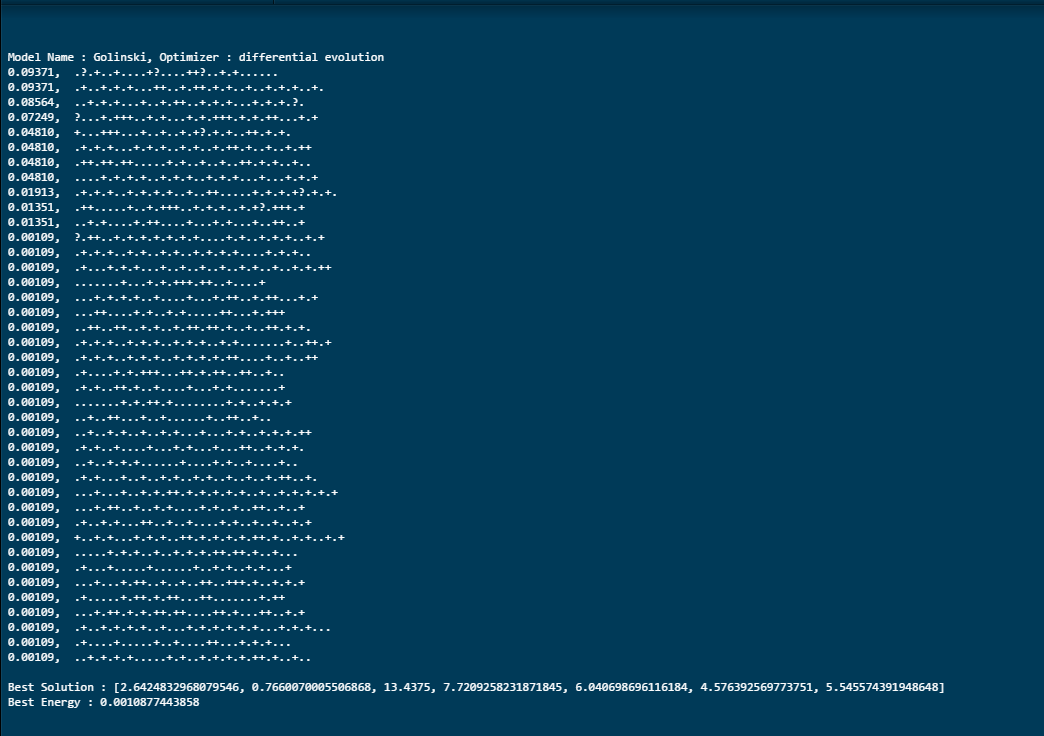
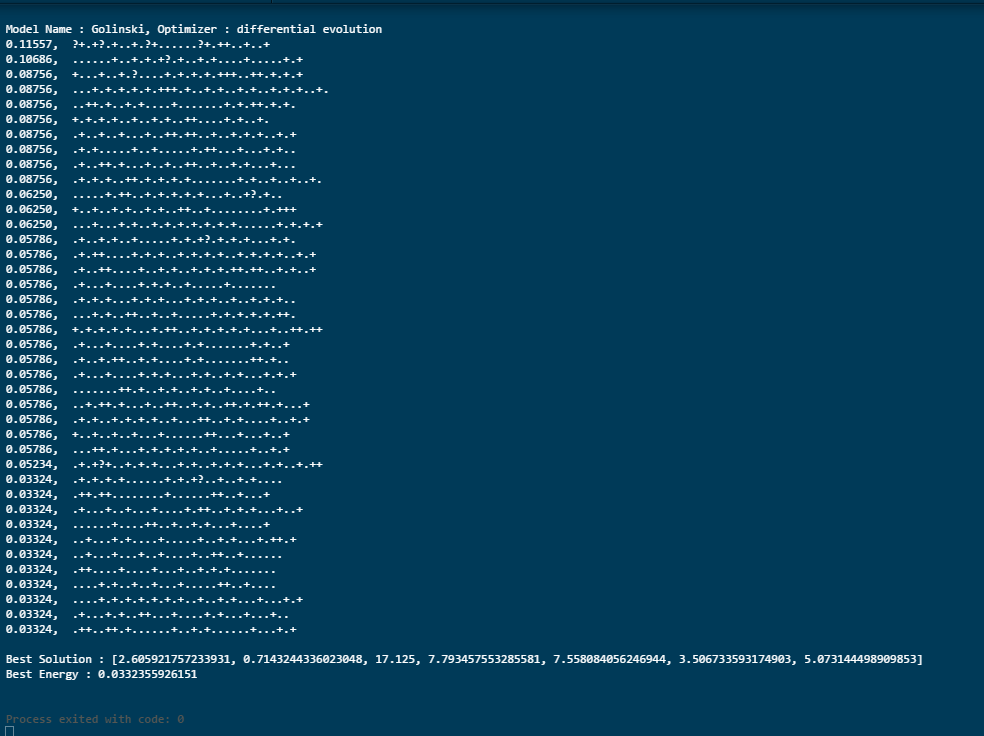
Fixed bug with mutation not taking care of var bounds

Changed region(s): [[0.0, 0.0312, 0.9451, 1.0]]

diff --git a/hw/code/7/GenericExperimentsDE.py b/hw/code/7/GenericExperimentsDE.py
@@ -323,7 +323,12 @@ def differential_evolution(model):
     def get_mutation(seen):
         soln = []
         for j in xrange(model.number_vars):
-            soln.append(frontier[seen[0]][j] + 0.75 * (frontier[seen[1]][j] - frontier[seen[2]][j]))
+            l , m = model.var_bounds[j]
+            inter = (frontier[seen[0]][j] + 0.75 * (frontier[seen[1]][j] - frontier[seen[2]][j]))
+            if inter >= l and inter <= m:
+                soln.append(inter)
+            else:
+                soln.append(frontier[seen[random.randint(0, 2)]][j])
         return soln
 
 
@@ -386,7 +391,10 @@ if __name__ == '__main__':
     # b = datetime.datetime.now()
     # print("# Runtime: %f" % ((b - a).microseconds/1000000))
 
-    for software_model in [Schaffer, Osyczka, Kursawe, Golinski]:
-        for optimizer in [simulated_annealing, max_walk_sat, differential_evolution]:
-            print "\n\n------------------------------------------------------------\n\n"
-            optimizer(software_model())
+    # for software_model in [Schaffer, Osyczka, Kursawe, Golinski]:
+    #     for optimizer in [simulated_annealing, max_walk_sat, differential_evolution]:
+    #         print "\n\n------------------------------------------------------------\n\n"
+    #         optimizer(software_model())
+            
+            
+    differential_evolution(Golinski())
